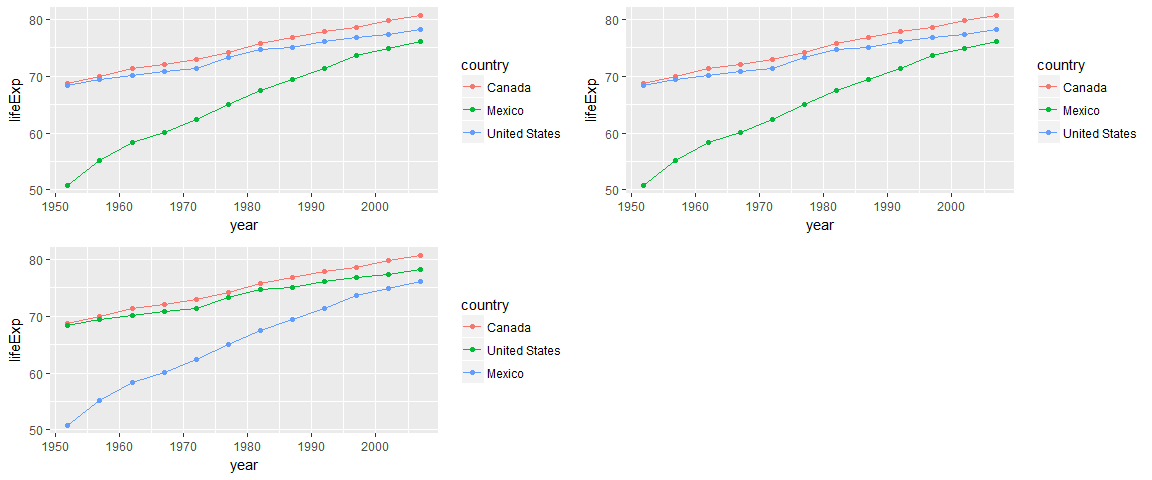
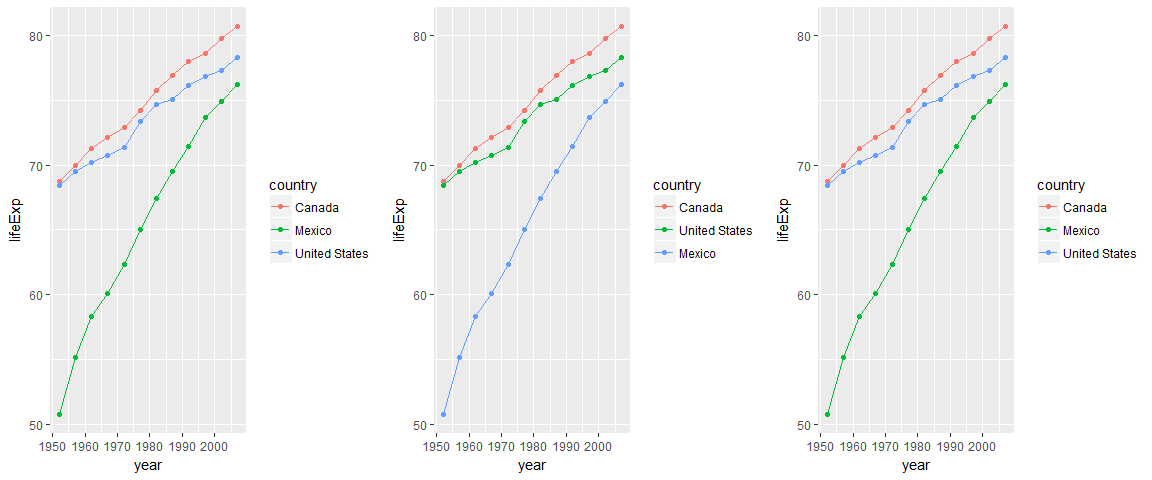
display three plots in one row

diff --git a/hw05/hw05_Gapminder.md b/hw05/hw05_Gapminder.md
@@ -236,7 +236,7 @@ p3 <- gapminder %>%
   geom_line()+
   geom_point()
 
-multiplot(p1, p2, p3, cols=2)
+multiplot(p1, p2, p3, cols=3)
 ```
 
     ## Loading required package: grid
